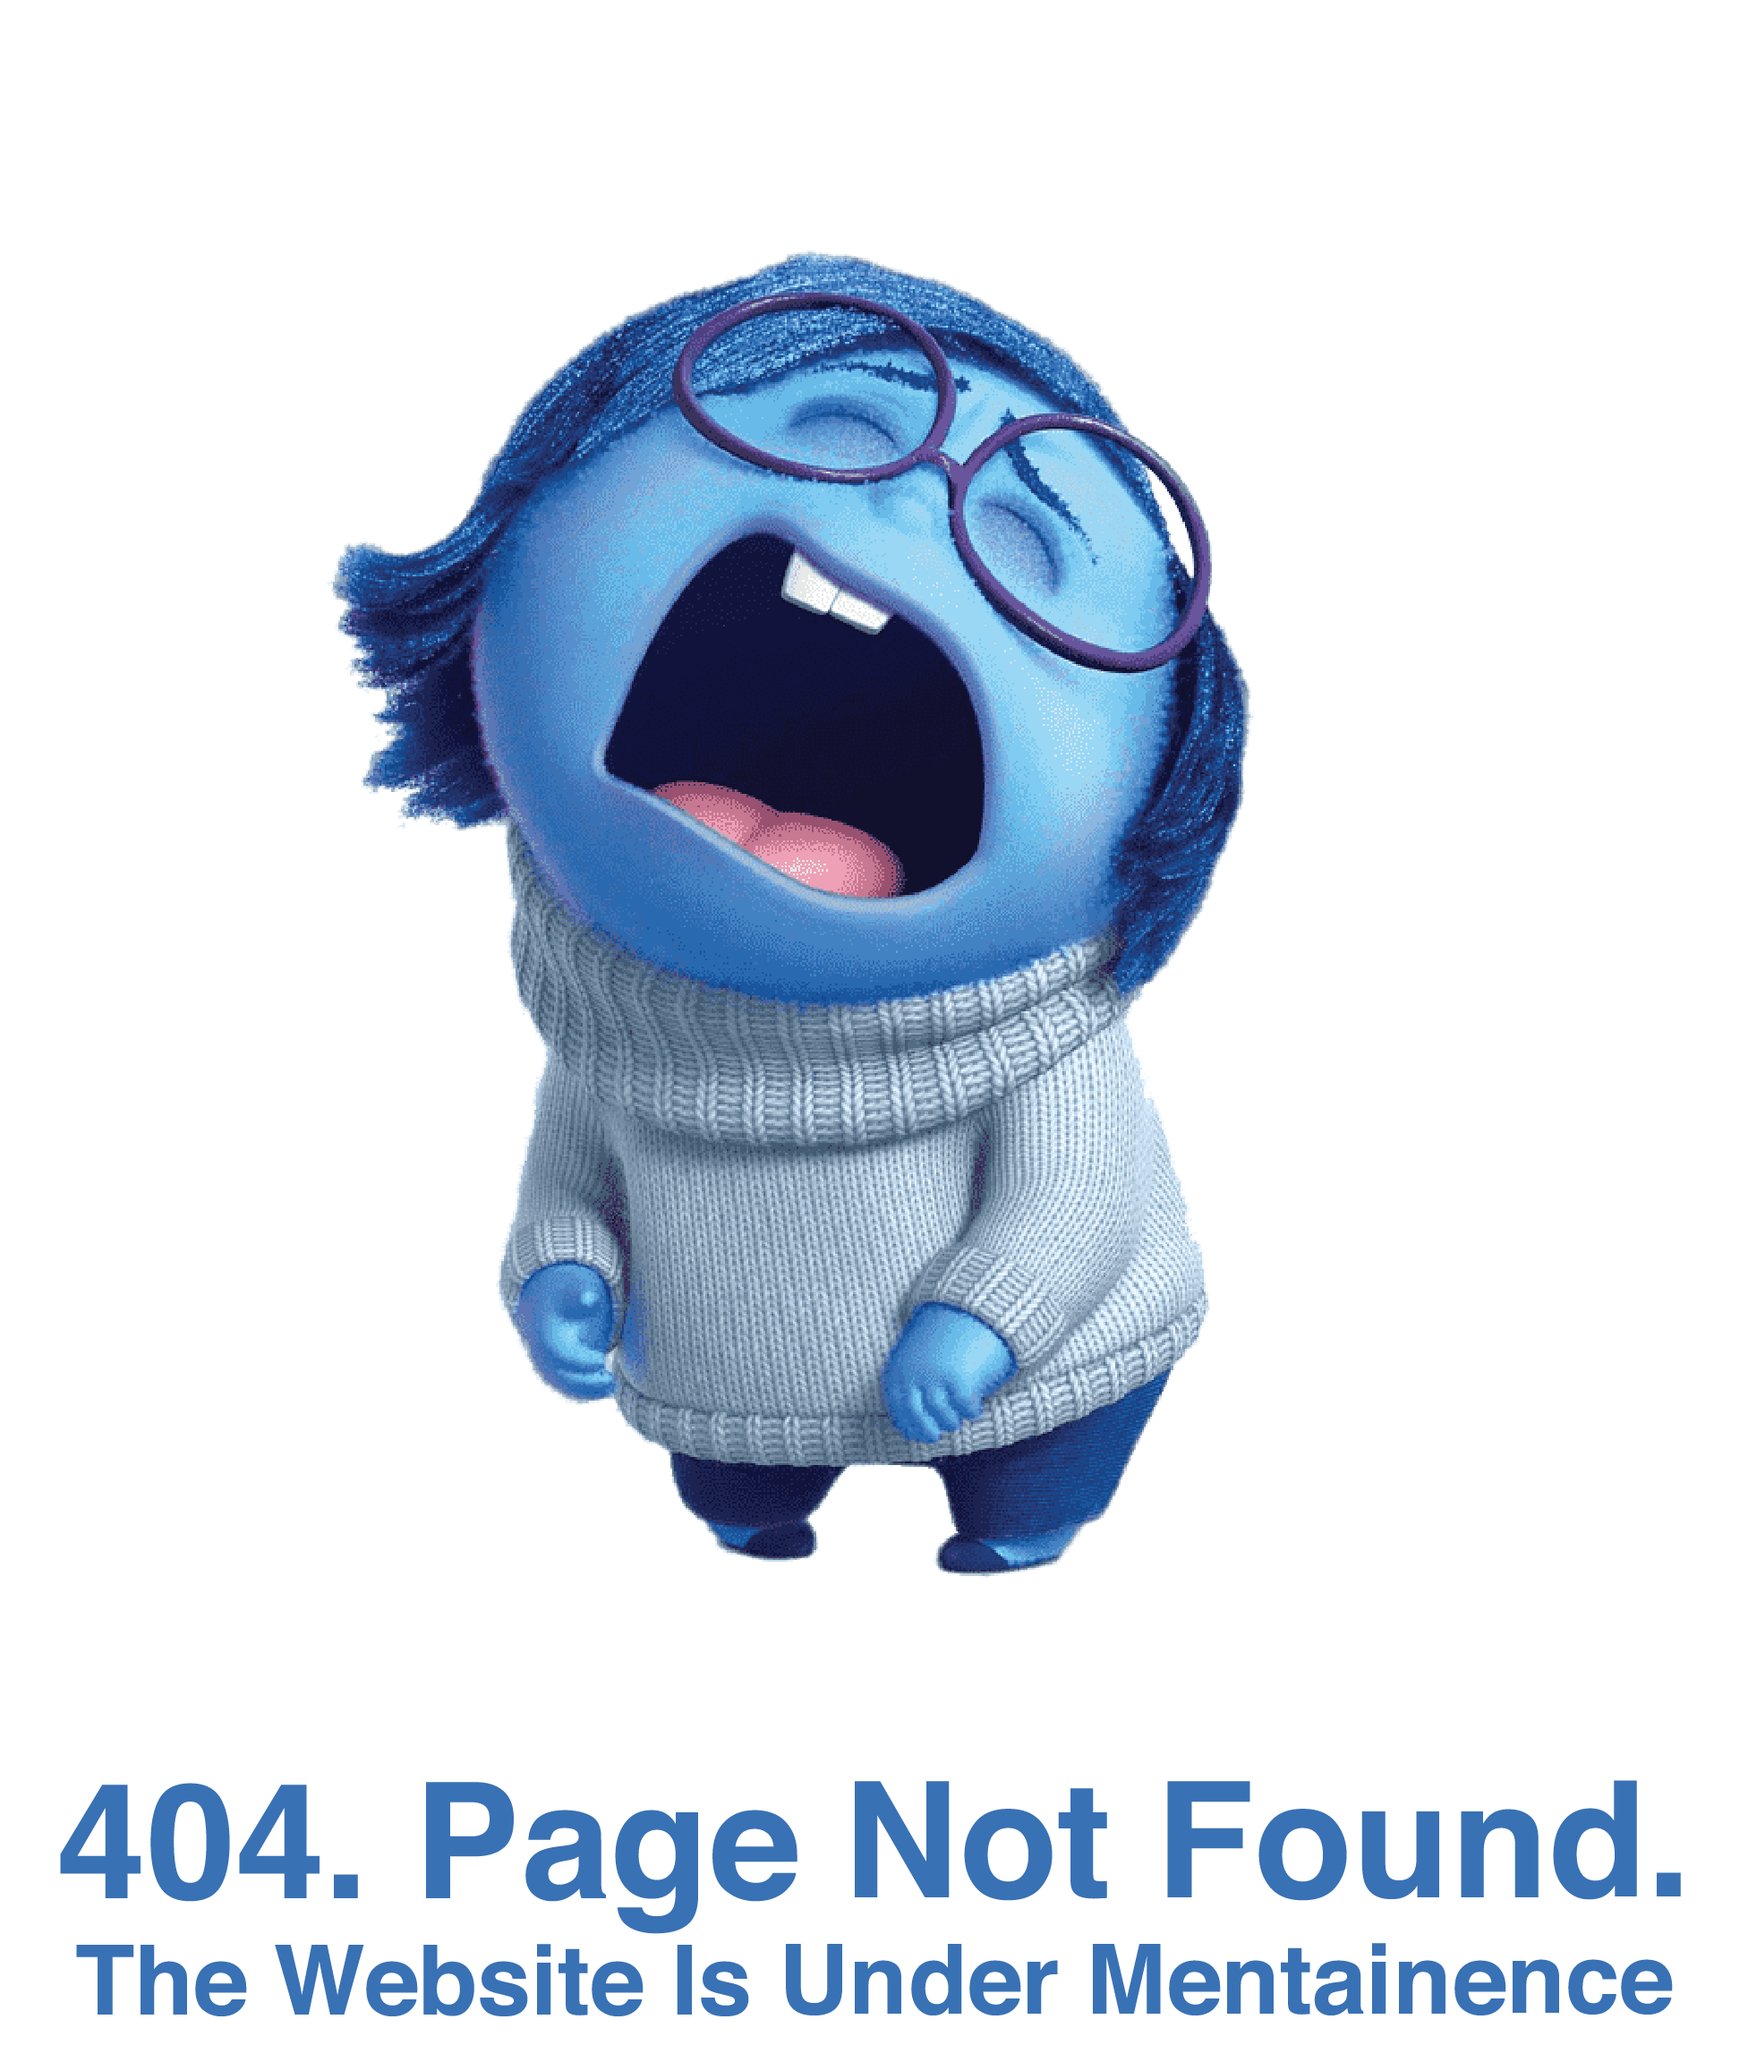
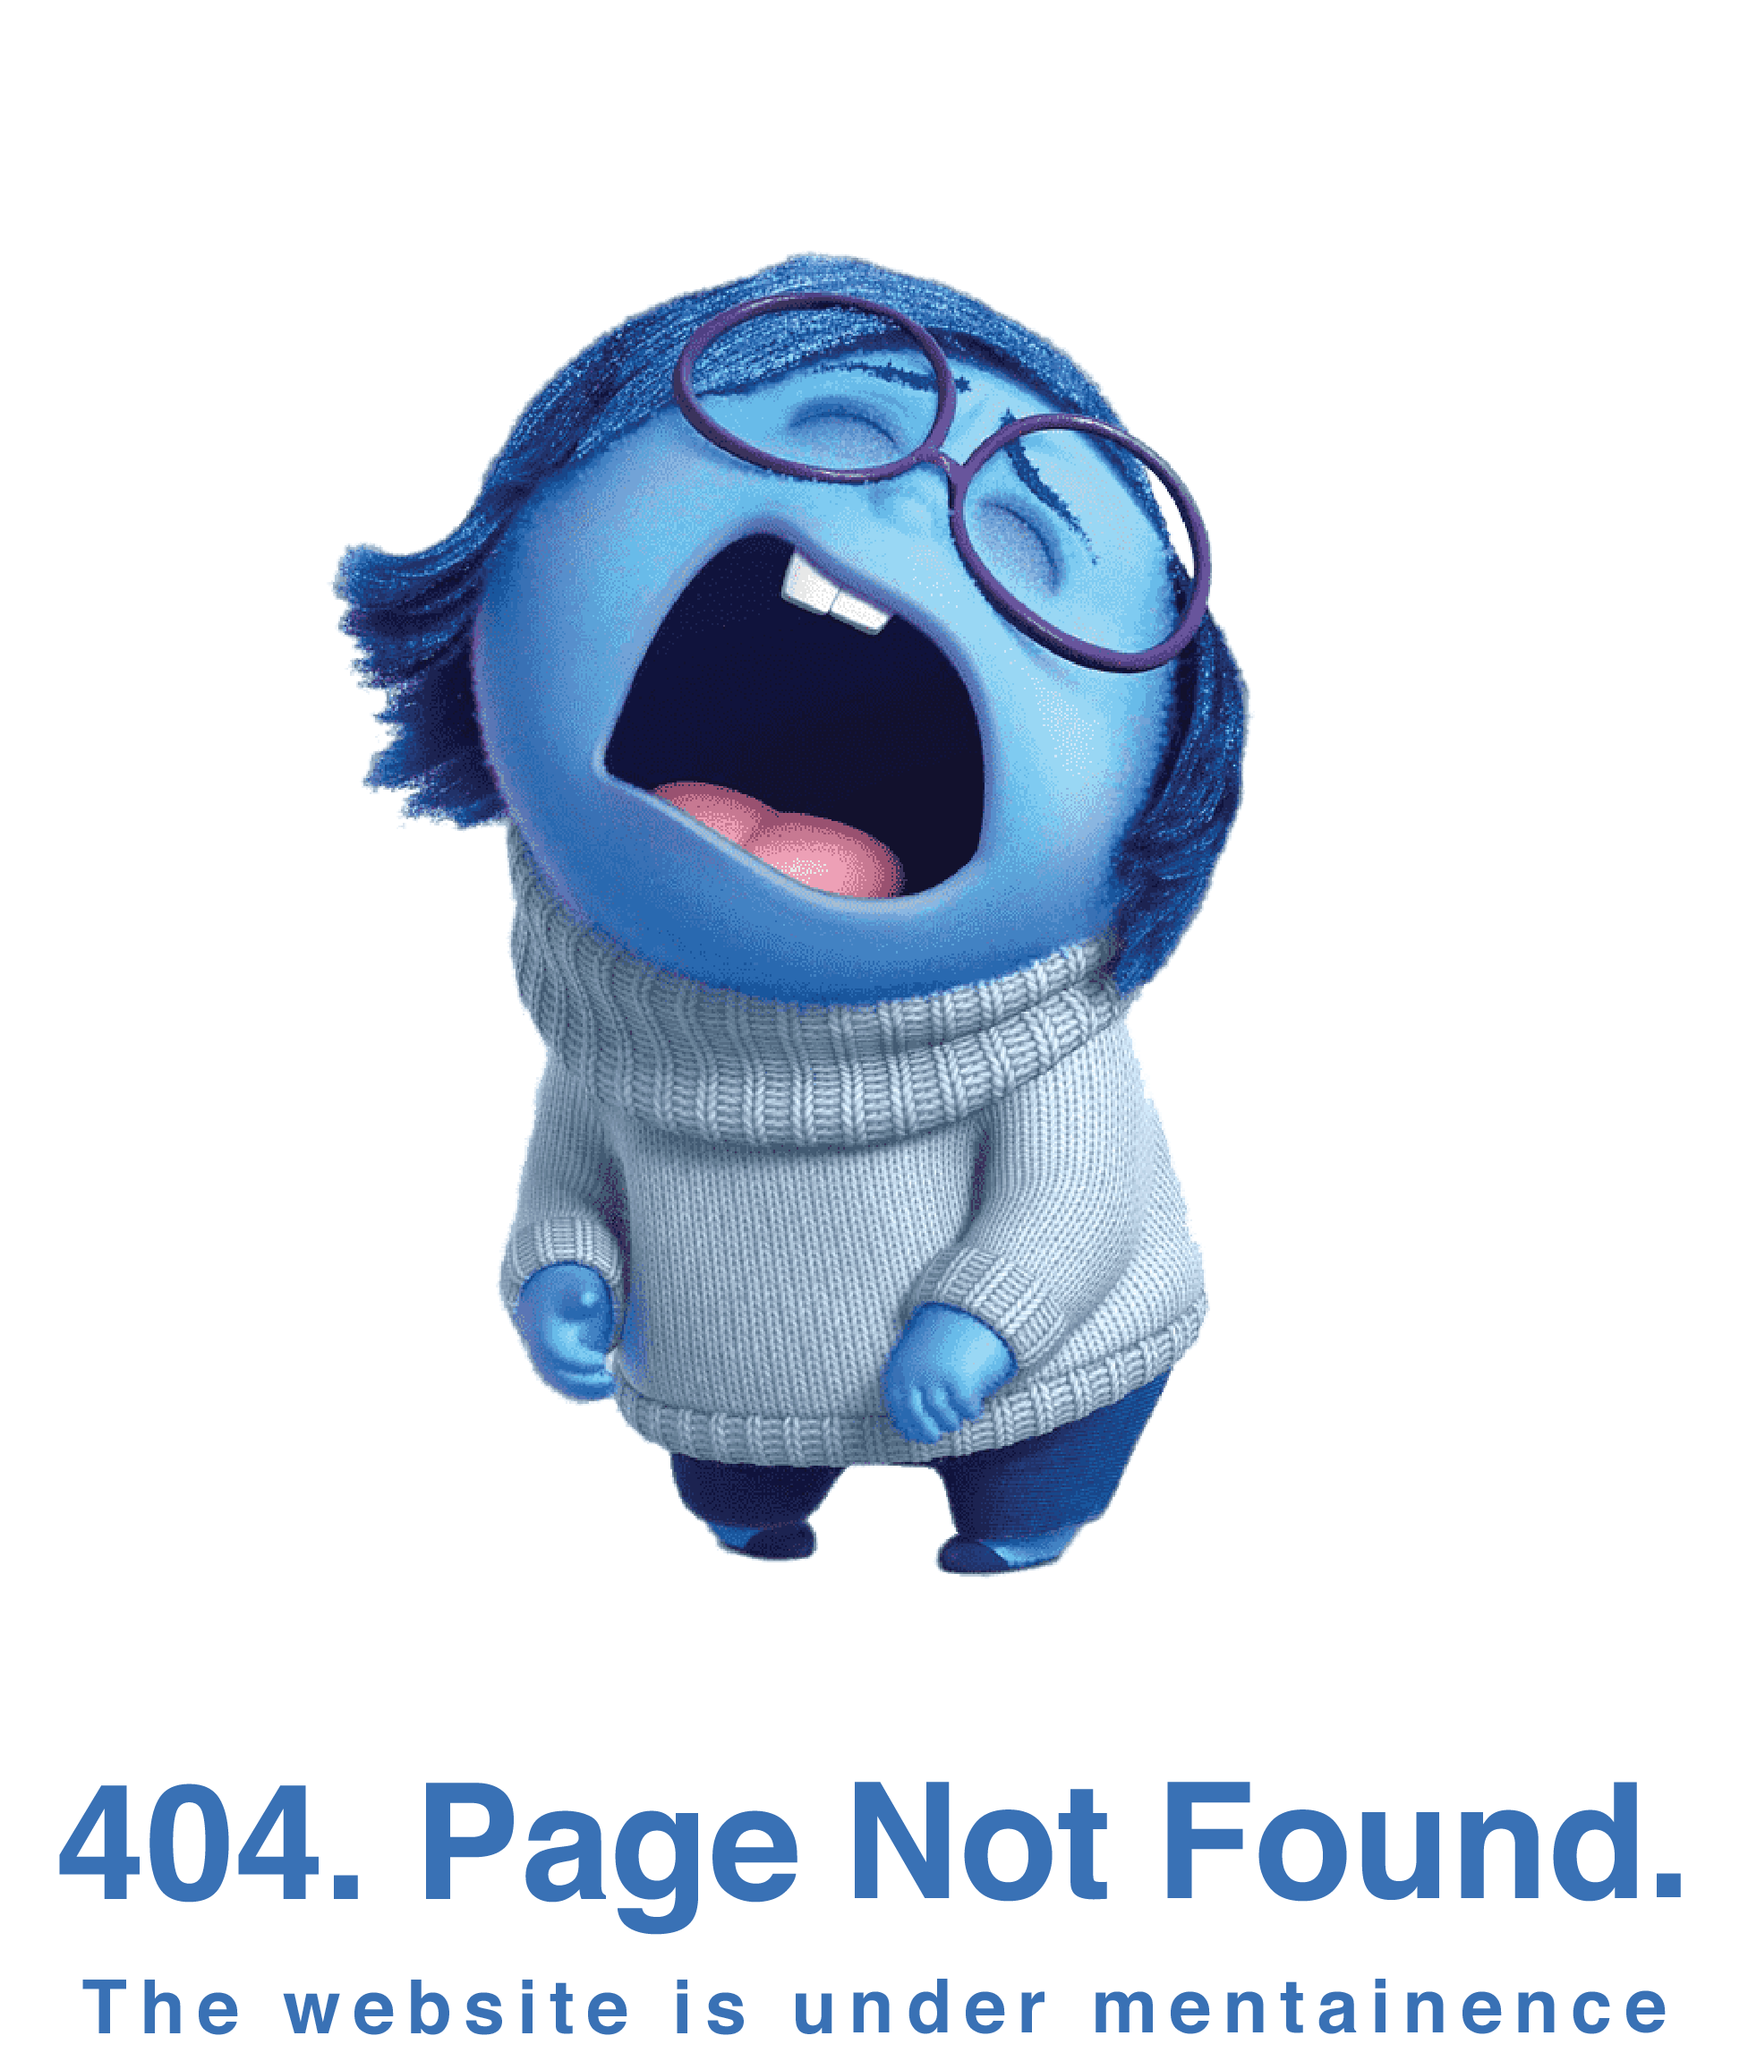
404 page installed

diff --git a/index.html b/index.html
@@ -34,7 +34,8 @@
                     <span>Seconds</span>
                 </div>
             </div>
-            <button>Learn More <img src="images/triangle.png" alt="button"> </button>
+            <button><a href="error.html" target="_blank" rel="noopener noreferrer">Learn More <img src="images/triangle.png" alt="button"></a></button>
+            
         </div>
 
         <img class="rocket" src="images/rocket.png" alt="rocket">

diff --git a/error.html b/error.html
@@ -1,0 +1,17 @@
+<!DOCTYPE html>
+<html lang="en">
+<head>
+    <meta charset="UTF-8">
+    <meta http-equiv="X-UA-Compatible" content="IE=edge">
+    <meta name="viewport" content="width=device-width, initial-scale=1.0">
+    <link rel="stylesheet" href="style.css">
+    <title>Error!</title>
+</head>
+<body>
+
+    <div class="not-found">
+        <img src="images/404-error-message-1.png" alt="">
+    </div>
+    
+</body>
+</html>

diff --git a/style.css b/style.css
@@ -53,6 +53,11 @@
     cursor: pointer;
 }
 
+.content button a {
+    text-decoration: none;
+    color: #fff;
+}
+
 .content button img {
     width: 15px;
     margin-left: 10px;
@@ -87,4 +92,16 @@
         bottom: 105%;
         opacity: 1;
     }
+}
+
+
+.not-found {
+    display: flex;
+    justify-content: center;
+    align-items: center;
+}
+
+.not-found img {
+    width: 35%;
+    height: 35%;
 }
